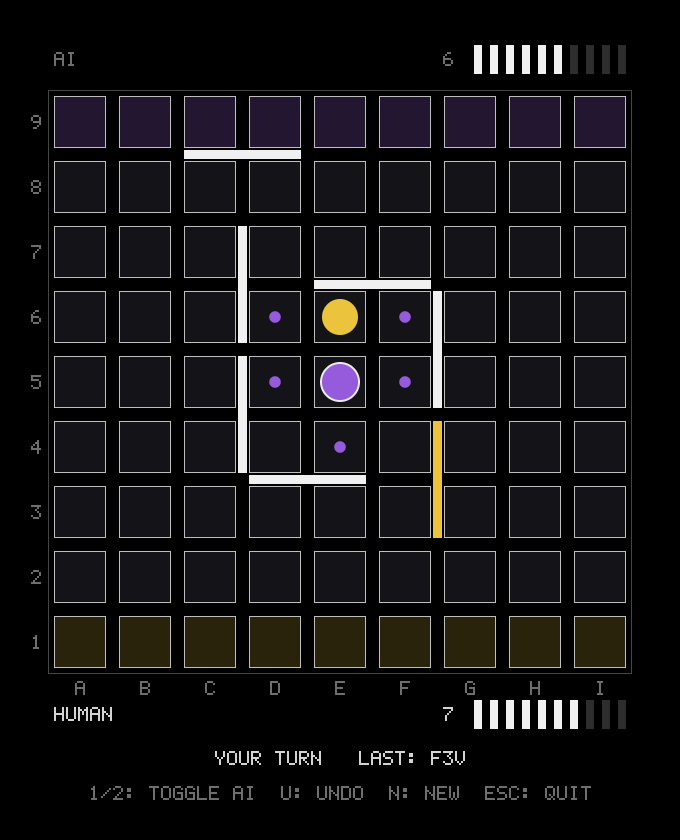
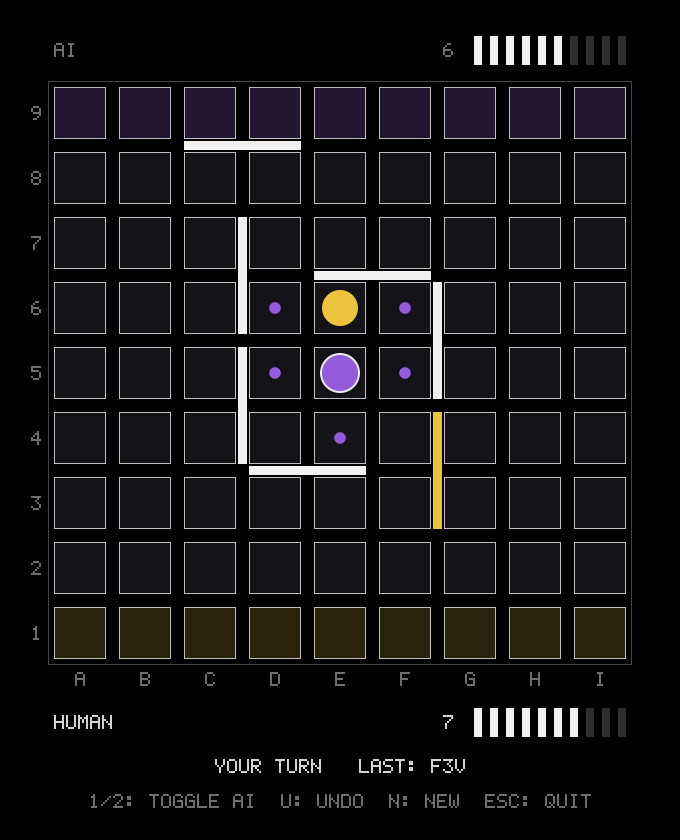
Match the gap below the file labels to the gap above the board
The bottom info row sat directly under the file labels. Reserve the
same gap there that separates the top info row from the board, and
regenerate the README screenshot.

diff --git a/src/ui.c b/src/ui.c
@@ -116,8 +116,10 @@ static void update_layout(ui_state *ui)
     ui->info_h = cell * 3 / 4;
     board_px = board_size_px(ui);
     line_h = FONT_GLYPH_H * ui->text_scale;
-    label_h = label_gap_px(ui) + line_h;
     gap = cell / 3;
+    /* The file labels, then the same gap that separates the top info row
+     * from the board. */
+    label_h = label_gap_px(ui) + line_h + gap;
 
     total = ui->info_h + gap + board_px + label_h + ui->info_h + gap + 7 * line_h / 2;
     top = (h - total) / 2;
